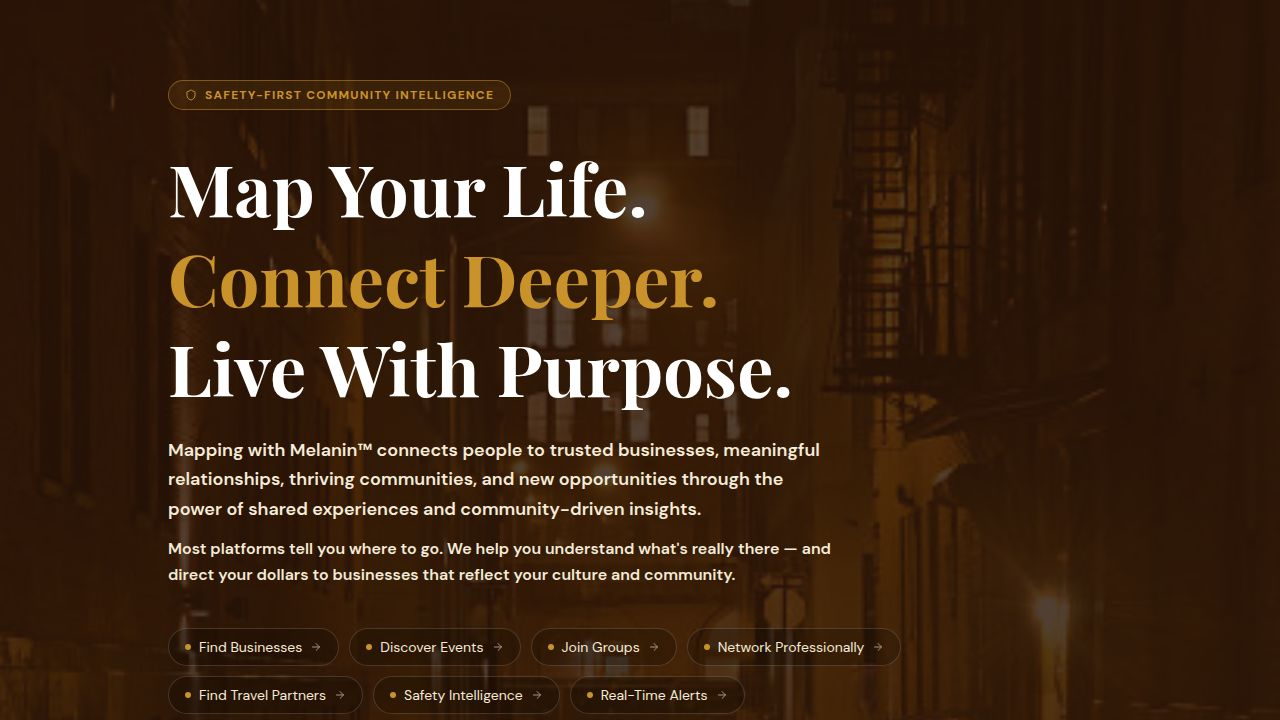
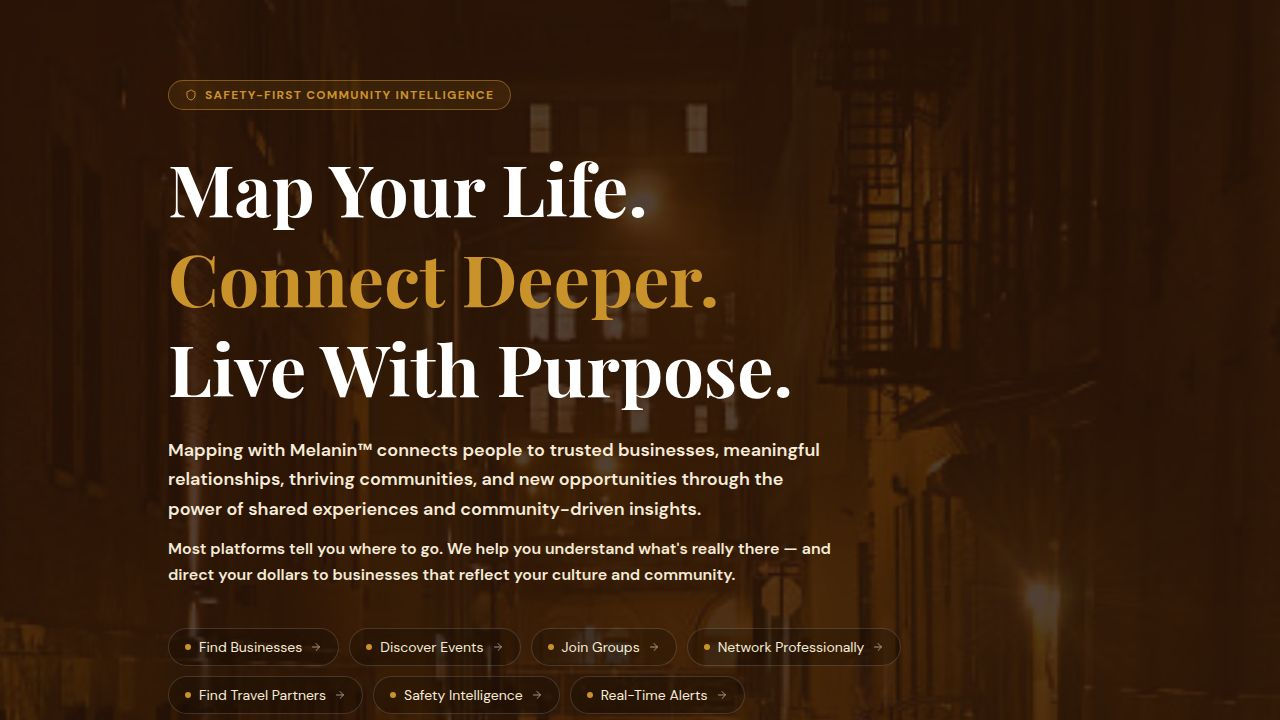
feat: Hero image expansion & tester welcome popup
## Task
Hero Image Expansion & Tester Welcome Popup for the web app.

## Changes

### DB schema (lib/db/src/schema/auth.ts)
- Added `role` varchar column to `usersTable` with enum values ("user" | "tester" | "admin"), default "user"
- Applied via `pnpm --filter @workspace/db run push`

### API — auth routes (artifacts/api-server/src/routes/auth.ts, src/lib/auth.ts)
- Added `role` field to `SessionUser` interface
- Both /callback (web OIDC) and /mobile-auth/token-exchange now include `role` in session data
- /api/auth/user already returns full req.user, so role is included automatically

### API — admin routes (artifacts/api-server/src/routes/admin-users.ts)
- GET /api/admin/users now returns `role` in each user record
- PATCH /api/admin/users/:id now accepts optional `role` ("user"|"tester"|"admin") in addition to `approved`
- Validation updated: request must provide at least one of `approved` or `role`

### Admin UI (artifacts/web/src/pages/admin.tsx)
- Added `role` field to AdminUser type
- Added `updateUserRole()` function calling PATCH with `{ role }`
- Added "Role" column to Registered Users table with a "Tester" toggle button per row
- Active tester toggle shows purple "Tester ✓" badge; inactive shows muted "Tester" button

### Membership page (artifacts/web/src/pages/membership.tsx)
- Fetches /api/auth/user on mount to get firstName, approved, and role
[…]

diff --git a/artifacts/web/src/pages/membership.tsx b/artifacts/web/src/pages/membership.tsx
@@ -1,10 +1,106 @@
+import { useState, useEffect } from "react";
 import { Button } from "@/components/ui/button";
 import { Check } from "lucide-react";
-import { Link } from "wouter";
+import { Link, useLocation } from "wouter";
+import {
+  Dialog,
+  DialogContent,
+  DialogHeader,
+  DialogTitle,
+  DialogDescription,
+} from "@/components/ui/dialog";
+
+const BASE = import.meta.env.BASE_URL;
+
+type CurrentUser = {
+  id: string;
+  firstName: string | null;
+  lastName: string | null;
+  email: string | null;
+  approved: boolean;
+  role: "user" | "tester" | "admin";
+} | null;
+
+const WELCOME_COPY = `As a tester for Mapping with Melanin™, your experience, feedback, and insights are essential to shaping what this platform becomes. You're not just trying out features — you're helping build the foundation of something that will genuinely serve and empower our community.
+
+During this testing phase, we ask that you:
+
+• Explore every corner of the app with curiosity and intention
+• Submit honest, detailed feedback — what works, what doesn't, and what's missing
+• Report any bugs, broken flows, or confusing moments you encounter
+• Share your thoughts on how the platform makes you feel as a member of this community
+• Treat your access as the privilege it is — this is a closed beta
+
+Your role is to help us get this right before we open the doors to the broader community. The decisions you help us make now will directly impact thousands of people who will depend on this platform to find trusted businesses, navigate their communities, and connect with people who share their values.
+
+We appreciate your time, your trust, and your commitment to the mission. Let's build something great together.
+
+— The Mapping with Melanin™ Team`;
 
 export default function Membership() {
+  const [currentUser, setCurrentUser] = useState<CurrentUser>(null);
+  const [modalOpen, setModalOpen] = useState(false);
+  const [pendingHref, setPendingHref] = useState<string | null>(null);
+  const [, navigate] = useLocation();
+
+  useEffect(() => {
+    fetch(`${BASE}api/auth/user`, { credentials: "include" })
+      .then((r) => r.json())
+      .then((data) => setCurrentUser(data.user ?? null))
+      .catch(() => {});
+  }, []);
+
+  const isTester =
+    currentUser?.approved === true && currentUser?.role === "tester";
+
+  function handlePlanClick(href: string) {
+    if (isTester) {
+      setPendingHref(href);
+      setModalOpen(true);
+    } else {
+      navigate(href);
+    }
+  }
+
+  function handleContinue() {
+    setModalOpen(false);
+    if (pendingHref) {
+      navigate(pendingHref);
+      setPendingHref(null);
+    }
+  }
+
   return (
     <div className="flex flex-col w-full min-h-screen bg-[#FAF6EF]">
+      {/* Tester Welcome Modal */}
+      <Dialog open={modalOpen} onOpenChange={setModalOpen}>
+        <DialogContent className="max-w-2xl bg-[#FAF6EF] border border-[#CA922B]/30 rounded-3xl p-0 overflow-hidden">
+          <div className="bg-[#2B1507] px-8 py-6">
+            <DialogHeader>
+              <DialogTitle className="text-2xl font-serif font-bold text-white text-left">
+                Hi {currentUser?.firstName ?? "there"}, welcome to the team. 👋🏾
+              </DialogTitle>
+              <DialogDescription className="text-[#F5EBD8]/70 text-sm text-left mt-1">
+                Before you continue, please read this important message from our team.
+              </DialogDescription>
+            </DialogHeader>
+          </div>
+          <div className="px-8 py-6">
+            <div className="space-y-4 text-[#3A1F0E]/80 text-sm leading-relaxed whitespace-pre-line">
+              {WELCOME_COPY}
+            </div>
+            <div className="mt-8 flex justify-end">
+              <Button
+                onClick={handleContinue}
+                className="rounded-full bg-[#CA922B] hover:bg-[#B38024] text-white px-8 h-12 font-bold shadow-[0_4px_14px_rgba(202,146,43,0.39)]"
+              >
+                I Understand — Continue
+              </Button>
+            </div>
+          </div>
+        </DialogContent>
+      </Dialog>
+
       {/* Hero */}
       <section className="bg-[#2B1507] py-24 relative overflow-hidden">
         <img src={`${import.meta.env.BASE_URL}images/hero-community-bg.jpg`} alt="" className="absolute inset-0 w-full h-full object-cover object-center" />
@@ -43,9 +139,13 @@ export default function Membership() {
                 </li>
               ))}
             </ul>
-            <Link href="/signup">
-              <Button variant="outline" className="w-full rounded-full border-[#CA922B] text-[#CA922B] hover:bg-[#CA922B] hover:text-white h-12 mt-auto">Get Started Free</Button>
-            </Link>
+            <Button
+              variant="outline"
+              className="w-full rounded-full border-[#CA922B] text-[#CA922B] hover:bg-[#CA922B] hover:text-white h-12 mt-auto"
+              onClick={() => handlePlanClick("/signup")}
+            >
+              Get Started Free
+            </Button>
           </div>
 
           {/* Premium Plan */}
@@ -66,9 +166,12 @@ export default function Membership() {
                 </li>
               ))}
             </ul>
-            <Link href="/signup">
-              <Button className="w-full rounded-full bg-[#CA922B] hover:bg-[#B38024] text-white h-12 mt-auto shadow-[0_4px_14px_rgba(202,146,43,0.39)]">Start Free Trial</Button>
-            </Link>
+            <Button
+              className="w-full rounded-full bg-[#CA922B] hover:bg-[#B38024] text-white h-12 mt-auto shadow-[0_4px_14px_rgba(202,146,43,0.39)]"
+              onClick={() => handlePlanClick("/signup")}
+            >
+              Start Free Trial
+            </Button>
           </div>
 
           {/* Lifetime Plan */}
@@ -85,9 +188,12 @@ export default function Membership() {
                 </li>
               ))}
             </ul>
-            <Link href="/signup">
-              <Button className="w-full rounded-full bg-[#3A1F0E] hover:bg-[#1a0c04] text-white h-12 mt-auto">Become a Founding Member</Button>
-            </Link>
+            <Button
+              className="w-full rounded-full bg-[#3A1F0E] hover:bg-[#1a0c04] text-white h-12 mt-auto"
+              onClick={() => handlePlanClick("/signup")}
+            >
+              Become a Founding Member
+            </Button>
           </div>
         </div>
 

diff --git a/artifacts/web/src/pages/admin.tsx b/artifacts/web/src/pages/admin.tsx
@@ -26,6 +26,7 @@ type AdminUser = {
   lastName: string | null;
   profileImageUrl: string | null;
   approved: boolean;
+  role: "user" | "tester" | "admin";
   createdAt: string;
 };
 
@@ -94,6 +95,18 @@ export default function Admin() {
       credentials: "include",
       headers: { "Content-Type": "application/json" },
       body: JSON.stringify({ approved }),
+    });
+    await loadUsers();
+    setUpdating(null);
+  };
+
+  const updateUserRole = async (id: string, role: "user" | "tester") => {
+    setUpdating(id + "-role");
+    await fetch(`${BASE}api/admin/users/${id}`, {
+      method: "PATCH",
+      credentials: "include",
+      headers: { "Content-Type": "application/json" },
+      body: JSON.stringify({ role }),
     });
     await loadUsers();
     setUpdating(null);
@@ -294,6 +307,7 @@ export default function Admin() {
                       <th className="text-left px-4 py-3 text-xs font-bold uppercase tracking-wider text-[#3A1F0E]/50">User</th>
                       <th className="text-left px-4 py-3 text-xs font-bold uppercase tracking-wider text-[#3A1F0E]/50">Email</th>
                       <th className="text-left px-4 py-3 text-xs font-bold uppercase tracking-wider text-[#3A1F0E]/50">Access</th>
+                      <th className="text-left px-4 py-3 text-xs font-bold uppercase tracking-wider text-[#3A1F0E]/50">Role</th>
                       <th className="text-left px-4 py-3 text-xs font-bold uppercase tracking-wider text-[#3A1F0E]/50">Joined</th>
                       <th className="text-left px-4 py-3 text-xs font-bold uppercase tracking-wider text-[#3A1F0E]/50">Actions</th>
                     </tr>
@@ -320,6 +334,17 @@ export default function Admin() {
                           {user.approved
                             ? <span className="inline-flex items-center gap-1 px-2 py-0.5 rounded-full bg-green-100 text-green-700 text-xs font-bold"><Check className="w-3 h-3" /> Approved</span>
                             : <span className="inline-flex items-center gap-1 px-2 py-0.5 rounded-full bg-amber-100 text-amber-700 text-xs font-bold"><Clock className="w-3 h-3" /> Pending</span>}
+                        </td>
+                        <td className="px-4 py-3">
+                          <Button
+                            size="sm"
+                            onClick={() => updateUserRole(user.id, user.role === "tester" ? "user" : "tester")}
+                            disabled={updating === user.id + "-role"}
+                            className={`h-7 px-3 rounded-full text-xs ${user.role === "tester" ? "bg-purple-100 text-purple-700 border border-purple-200 hover:bg-purple-200" : "bg-white text-[#3A1F0E]/50 border border-[#3A1F0E]/15 hover:bg-[#FAF6EF]"}`}
+                            variant="outline"
+                          >
+                            {user.role === "tester" ? "Tester ✓" : "Tester"}
+                          </Button>
                         </td>
                         <td className="px-4 py-3 text-[#3A1F0E]/50 text-xs">
                           {new Date(user.createdAt).toLocaleDateString("en-US", { month: "short", day: "numeric", year: "numeric" })}

diff --git a/artifacts/api-server/src/routes/admin-users.ts b/artifacts/api-server/src/routes/admin-users.ts
@@ -31,6 +31,7 @@ router.get("/admin/users", async (req: Request, res: Response) => {
         lastName: usersTable.lastName,
         profileImageUrl: usersTable.profileImageUrl,
         approved: usersTable.approved,
+        role: usersTable.role,
         createdAt: usersTable.createdAt,
       })
       .from(usersTable)
@@ -48,21 +49,36 @@ router.patch("/admin/users/:id", async (req: Request, res: Response) => {
     return;
   }
   const id = String(req.params.id);
-  const { approved } = req.body;
-  if (typeof approved !== "boolean") {
+  const { approved, role } = req.body;
+
+  if (approved !== undefined && typeof approved !== "boolean") {
     res.status(400).json({ error: "approved must be a boolean" });
     return;
   }
+  if (role !== undefined && !["user", "tester", "admin"].includes(role)) {
+    res.status(400).json({ error: "role must be one of: user, tester, admin" });
+    return;
+  }
+  if (approved === undefined && role === undefined) {
+    res.status(400).json({ error: "Must provide approved or role" });
+    return;
+  }
+
+  const updateData: Record<string, unknown> = { updatedAt: new Date() };
+  if (approved !== undefined) updateData.approved = approved;
+  if (role !== undefined) updateData.role = role;
+
   try {
     const [updated] = await db
       .update(usersTable)
-      .set({ approved, updatedAt: new Date() })
+      .set(updateData as any)
       .where(eq(usersTable.id, id))
       .returning({
         id: usersTable.id,
         email: usersTable.email,
         firstName: usersTable.firstName,
         approved: usersTable.approved,
+        role: usersTable.role,
       });
     if (!updated) {
       res.status(404).json({ error: "User not found" });
@@ -80,7 +96,7 @@ router.patch("/admin/users/:id", async (req: Request, res: Response) => {
 
     res.json({ user: updated });
   } catch (err) {
-    req.log.error({ err }, "Failed to update user approval");
+    req.log.error({ err }, "Failed to update user");
     res.status(500).json({ error: "Failed to update user" });
   }
 });

diff --git a/artifacts/web/src/pages/home.tsx b/artifacts/web/src/pages/home.tsx
@@ -58,8 +58,8 @@ export default function Home() {
   return (
     <div className="flex flex-col w-full bg-[#FAF6EF]">
       {/* Hero Section */}
-      <section className="relative min-h-[50vh] md:min-h-[100vh] flex items-center pt-20 pb-32 overflow-hidden bg-[#2B1507]">
-        <img src={`${import.meta.env.BASE_URL}images/hero-home-bg.png`} alt="" className="absolute inset-0 w-full h-full object-cover object-center" />
+      <section className="relative min-h-[50vh] md:min-h-[110vh] flex items-center pt-20 pb-32 overflow-hidden bg-[#2B1507]">
+        <img src={`${import.meta.env.BASE_URL}images/hero-home-bg.png`} alt="" className="absolute inset-0 w-full h-full object-cover object-bottom" />
         <div className="absolute inset-0 bg-[#2B1507]/82 z-0" />
         
         <div className="relative z-10 container mx-auto px-6 md:px-10 max-w-5xl flex flex-col items-start text-left">

diff --git a/artifacts/api-server/src/routes/auth.ts b/artifacts/api-server/src/routes/auth.ts
@@ -172,6 +172,7 @@ router.get("/callback", async (req: Request, res: Response) => {
       lastName: dbUser.lastName,
       profileImageUrl: dbUser.profileImageUrl,
       approved: dbUser.approved,
+      role: dbUser.role as "user" | "tester" | "admin",
     },
     access_token: tokens.access_token,
     refresh_token: tokens.refresh_token,
@@ -243,6 +244,7 @@ router.post(
           lastName: dbUser.lastName,
           profileImageUrl: dbUser.profileImageUrl,
           approved: dbUser.approved,
+          role: dbUser.role as "user" | "tester" | "admin",
         },
         access_token: tokens.access_token,
         refresh_token: tokens.refresh_token,

diff --git a/lib/db/src/schema/auth.ts b/lib/db/src/schema/auth.ts
@@ -23,6 +23,7 @@ export const usersTable = pgTable("users", {
   stripeSubscriptionId: varchar("stripe_subscription_id"),
   pushToken: varchar("push_token"),
   approved: boolean("approved").notNull().default(true),
+  role: varchar("role", { enum: ["user", "tester", "admin"] }).notNull().default("user"),
   createdAt: timestamp("created_at", { withTimezone: true }).notNull().defaultNow(),
   updatedAt: timestamp("updated_at", { withTimezone: true }).notNull().defaultNow().$onUpdate(() => new Date()),
 });

diff --git a/artifacts/api-server/src/lib/auth.ts b/artifacts/api-server/src/lib/auth.ts
@@ -11,6 +11,7 @@ export const SESSION_TTL = 7 * 24 * 60 * 60 * 1000;
 
 export interface SessionUser extends AuthUser {
   approved: boolean;
+  role: "user" | "tester" | "admin";
 }
 
 export interface SessionData {
